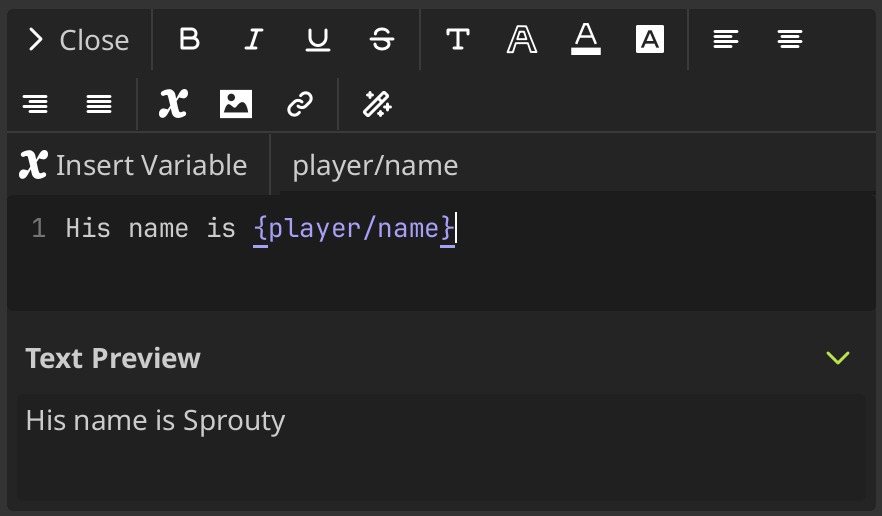
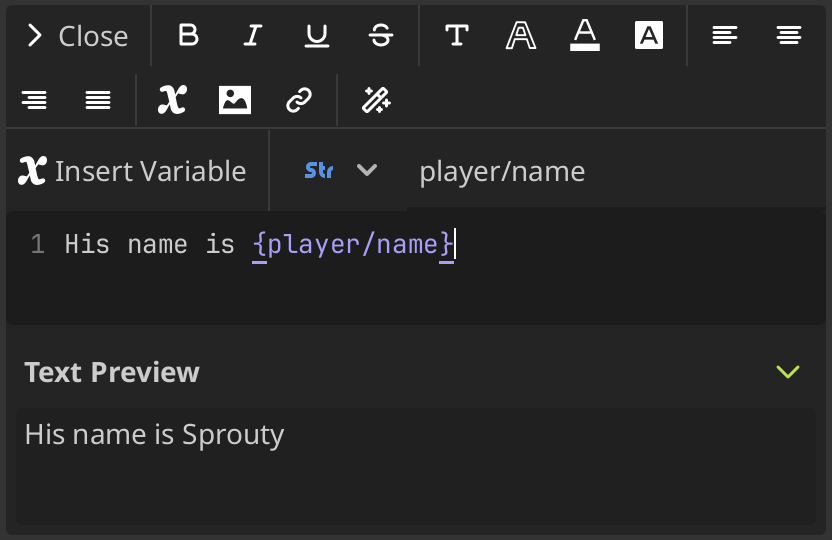
Insert variables in text editor updated

diff --git a/docs/class-reference/utils/variable-utils.md b/docs/class-reference/utils/variable-utils.md
@@ -14,7 +14,7 @@ This class provides utility methods to handle variables, such as get the UI fiel
 
 | Return Type                                                                            | Method                                                                                                                                                                                                                                                                                                                                                                                                                                                                                                                                                                                            |
 | -------------------------------------------------------------------------------------- | ------------------------------------------------------------------------------------------------------------------------------------------------------------------------------------------------------------------------------------------------------------------------------------------------------------------------------------------------------------------------------------------------------------------------------------------------------------------------------------------------------------------------------------------------------------------------------------------------- |
-| [Array](https://docs.godotengine.org/en/stable/classes/class_array.html)               | [get_variables_of_type](#get-variables-of-type-method)(type: [int](https://docs.godotengine.org/en/stable/classes/class_int.html) = -1, group: [Dictionary](https://docs.godotengine.org/en/stable/classes/class_dictionary.html) = \{\})                                                                                                                                                                                                                                                                                                                                                         |
+| [Array](https://docs.godotengine.org/en/stable/classes/class_array.html)               | [get_variables_of_type](#get-variables-of-type-method)(type: [int](https://docs.godotengine.org/en/stable/classes/class_int.html) = -1, metadata: [Dictionary](https://docs.godotengine.org/en/stable/classes/class_dictionary.html) = \{\}, group: [Dictionary](https://docs.godotengine.org/en/stable/classes/class_dictionary.html) = \{\})                                                                                                                                                                                                                                                    |
 | [OptionButton](https://docs.godotengine.org/en/stable/classes/class_optionbutton.html) | [get_types_dropdown](#get-types-dropdown-method)(label: [bool](https://docs.godotengine.org/en/stable/classes/class_bool.html) = true, excluded: [Array](https://docs.godotengine.org/en/stable/classes/class_array.html)[[String](https://docs.godotengine.org/en/stable/classes/class_string.html)] = [])                                                                                                                                                                                                                                                                                       |
 | [Dictionary](https://docs.godotengine.org/en/stable/classes/class_dictionary.html)     | [new_field_by_type](#new-field-by-type-method)(type: [int](https://docs.godotengine.org/en/stable/classes/class_int.html), init_value: [Variant](https://docs.godotengine.org/en/stable/classes/class_variant.html) = null, property_data: [Dictionary](https://docs.godotengine.org/en/stable/classes/class_dictionary.html) = \{\}, on_value_changed: [Callable](https://docs.godotengine.org/en/stable/classes/class_callable.html) = func(value, type, field): return, on_modified_callable: [Callable](https://docs.godotengine.org/en/stable/classes/class_callable.html) = func(): return) |
 | void                                                                                   | [set_field_value](#set-field-value-method)(field: [Control](https://docs.godotengine.org/en/stable/classes/class_control.html), type: [int](https://docs.godotengine.org/en/stable/classes/class_int.html), value: [Variant](https://docs.godotengine.org/en/stable/classes/class_variant.html))                                                                                                                                                                                                                                                                                                  |
@@ -74,7 +74,7 @@ This class provides utility methods to handle variables, such as get the UI fiel
 ## Method Descriptions
 
 <h3 id="get-variables-of-type-method">
-  <span class="reference-type">func </span><code>get_variables_of_type</code><span class="parameters">(type: <a target="_blank" href="https://docs.godotengine.org/en/stable/classes/class_int.html">int</a> = -1, group: <a target="_blank" href="https://docs.godotengine.org/en/stable/classes/class_dictionary.html">Dictionary</a> = \{\})</span><span class="return-type"> -> <a target="_blank" href="https://docs.godotengine.org/en/stable/classes/class_array.html">Array</a></span>
+  <span class="reference-type">func </span><code>get_variables_of_type</code><span class="parameters">(type: <a target="_blank" href="https://docs.godotengine.org/en/stable/classes/class_int.html">int</a> = -1, metadata: <a target="_blank" href="https://docs.godotengine.org/en/stable/classes/class_dictionary.html">Dictionary</a> = \{\}, group: <a target="_blank" href="https://docs.godotengine.org/en/stable/classes/class_dictionary.html">Dictionary</a> = \{\})</span><span class="return-type"> -> <a target="_blank" href="https://docs.godotengine.org/en/stable/classes/class_array.html">Array</a></span>
 </h3>
 <p>Returns a list with the names of variables of the given type. If a type is specified, it returns only the variables of that type. If no type is specified, it returns all variables. If no variables are found, it returns an empty array.</p>
 <hr/>

diff --git a/docs/dialogues/text-editor.md b/docs/dialogues/text-editor.md
@@ -122,9 +122,19 @@ You can change the following properties:
 
 ### Insert Variables
 
-To insert a variable, you can use the **Insert Variable** option in the toolbar. You must **enter the variable name in the input field** and press `[Enter]` to add it. This is not a BBCode tag, but a special placeholder that will be replaced with the variable's value at runtime. Its format is: `{variable_name}`
+To insert a variable, you can use the **Insert Variable** option in the toolbar. You can **select the type of the variable** to filter the variables shown in the dropdown when you **enter the variable name in the input field**, and then **select it from the dropdown** or press `[Enter]` to add it.
+
+In this case, we do not insert a BBCode tag here, but rather a special placeholder that will be replaced by the value of the variable at runtime. Its format is: `{variable_name}`.
 
 ![Insert Variable](../../static/img/screenshots/text-editor/insert_variable.png)
+
+:::info[Important]
+
+You can insert any variable defined in the plugin, **including global variables**, but they are not going to be displayed in the text editor, because their values are only known at runtime.
+
+:::
+
+For more information about variables, you can check the [variables section](/docs/variables.md).
 
 ### Insert Images
 

diff --git a/docs/variables.md b/docs/variables.md
@@ -54,7 +54,11 @@ With the variables configured here, you can do many things! Let's take a look.
 
 - Also, you can use **global variables from Autoloads**. To use global variables, you need to write the variable as `{AutoloadName.variable_name}` to use them.
 
-You can also use expressions inside the brackets. See the [using expressions section](#using-expressions).
+- You can also use expressions inside the brackets. See the [using expressions section](#using-expressions).
+
+When you edit dialogues using the text editor, you can see a list of available variables filtered by type to insert variables more easily. For more information, see the [text editor section](/docs/dialogues/text-editor#insert-variables).
+
+![Insert Variable](../static/img/screenshots/text-editor/insert_variable.png)
 
 ### Variables in character names
 
